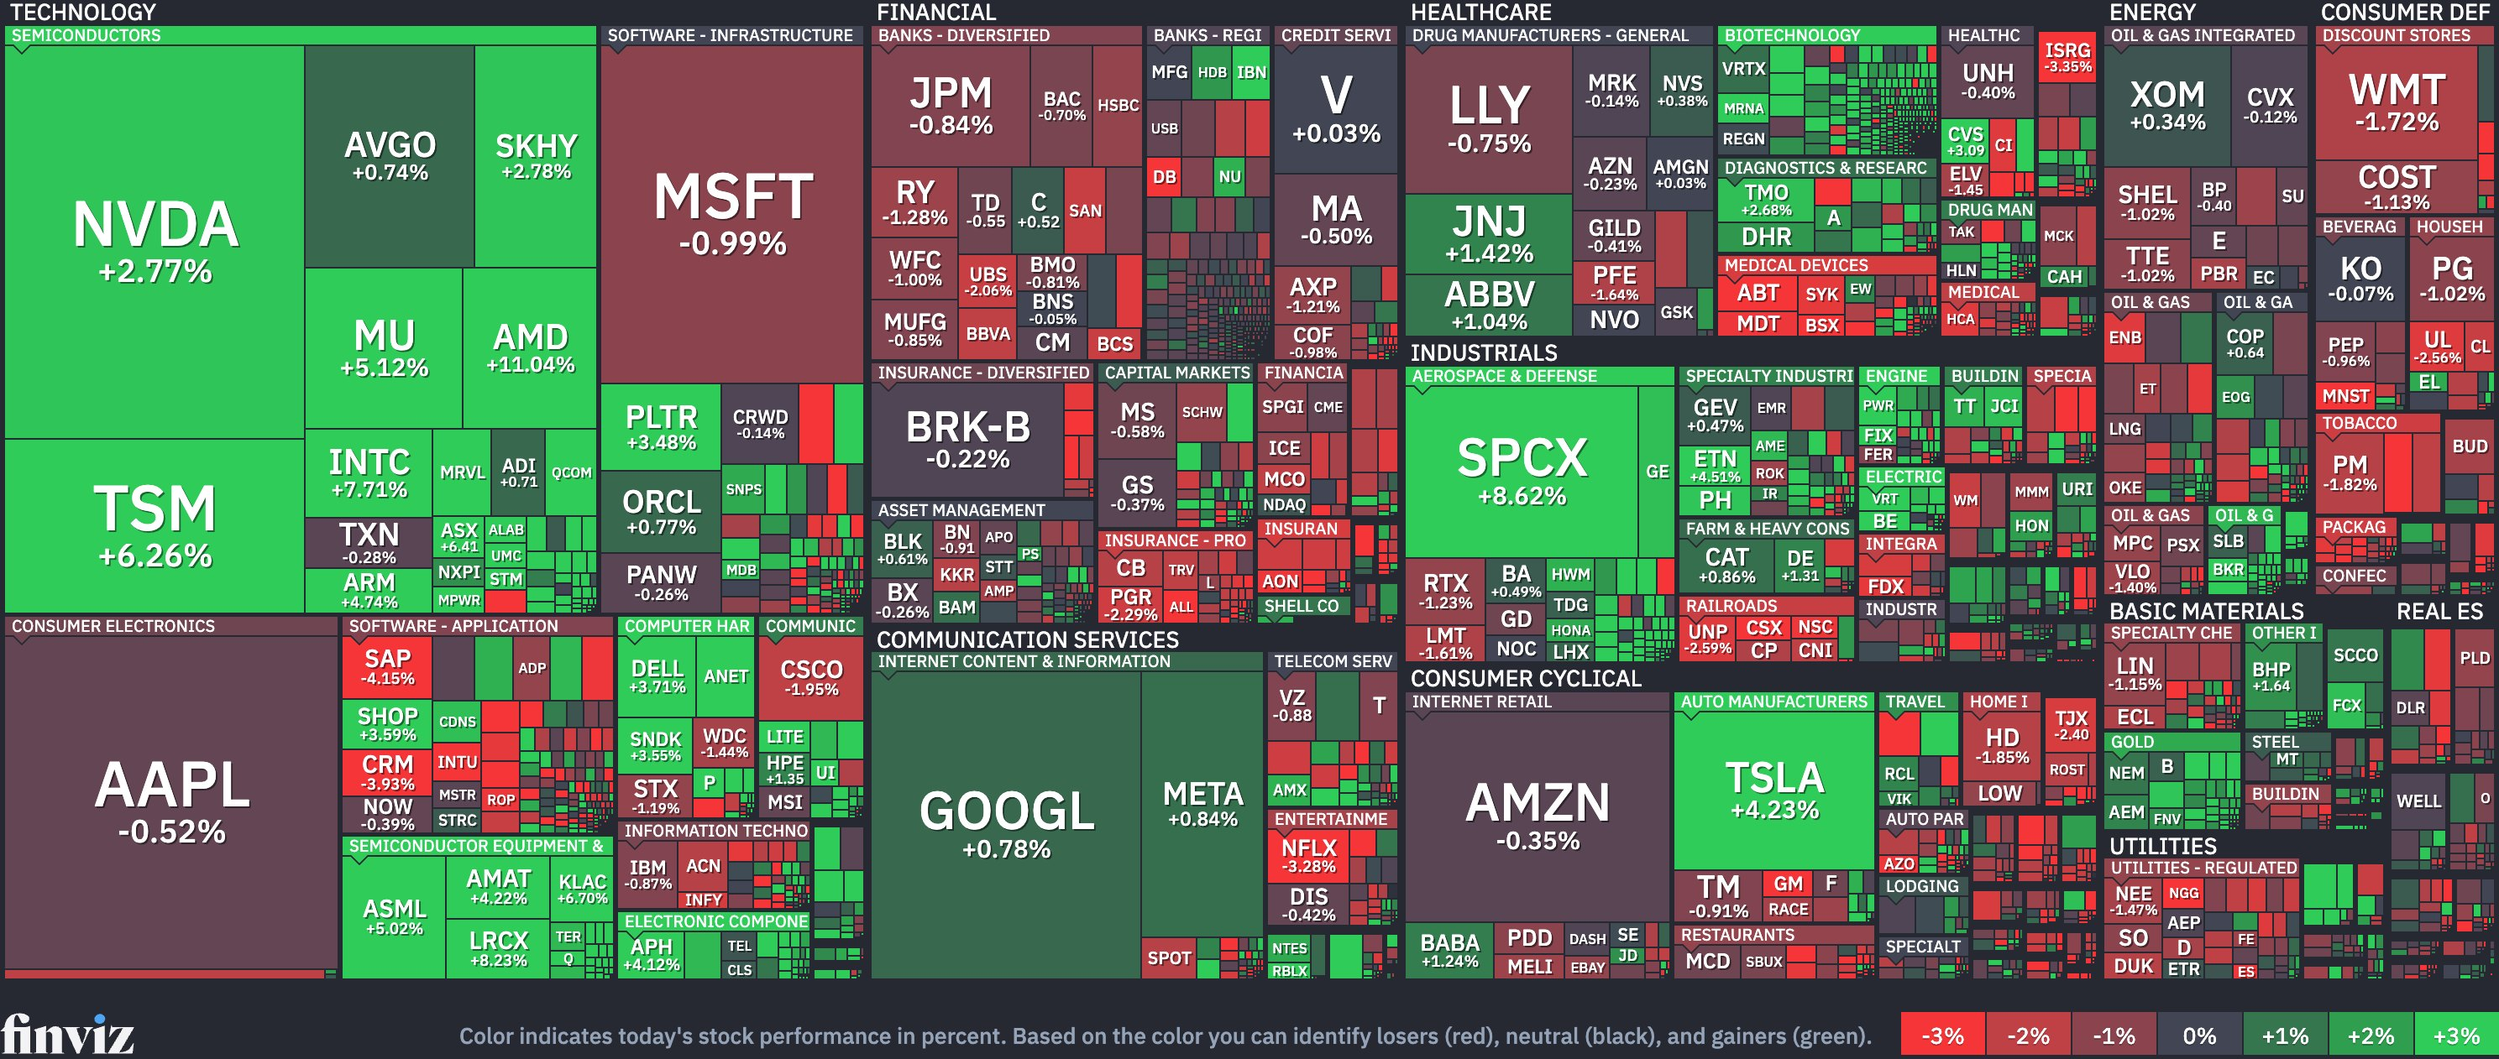
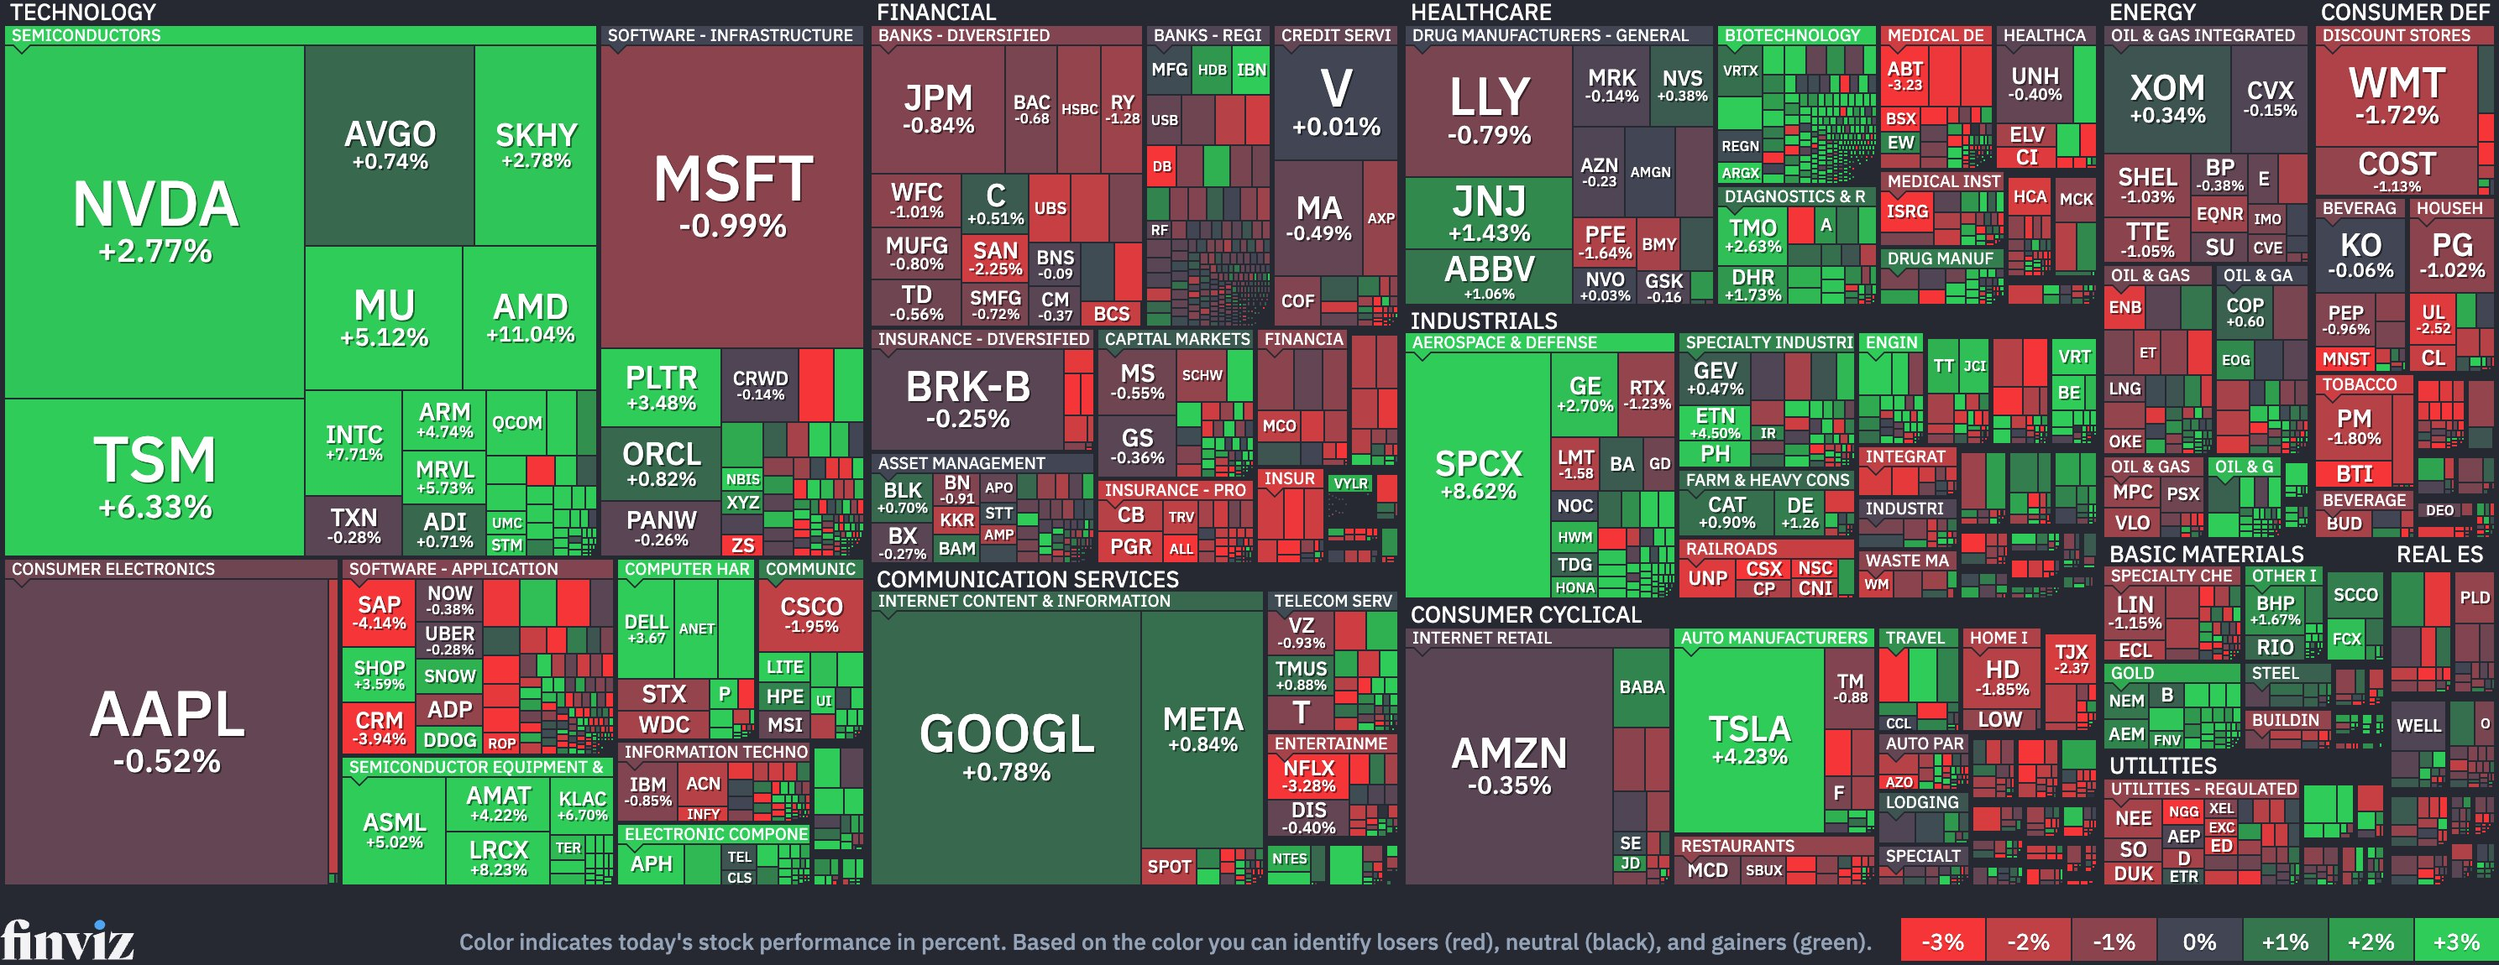
STOCK MAP 갱신 Fri NOV 06, 8:48 PM ET

diff --git a/index.html b/index.html
@@ -117,7 +117,7 @@ footer{margin-top:34px;font-size:12px;color:#7A867C;text-align:center;line-heigh
 <div class="hd"><div class="kicker">STRUCTURE &amp; BOTTLENECKS</div><h1>Report Vault</h1>
 <p>매크로·산업·기업 분석 기록을 모아 읽는 보고서 자료실.</p></div>
 <div class="board"><div class="bhd"><span class="bt">MARKET BOARD</span><span class="bu">11/7 10:47 KST 기준</span></div><div class="bgrid main"><div class="tile down"><div class="tl">DJIA</div><div class="tv">51,285.73</div><div class="tc">▼ −237.33<span class="tp">−0.46%</span></div><svg class="spk" viewBox="0 0 100 26" preserveAspectRatio="none" role="img" aria-label="최근 1개월 10-05→11-06 · 최저 51,179.87 · 최고 53,356.12 · +0.0%"><title>최근 1개월 10-05→11-06 · 최저 51,179.87 · 최고 53,356.12 · +0.0%</title><polygon points="0,26 0.0,23.1 4.2,20.5 8.3,24.0 12.5,23.5 16.7,19.2 20.8,17.2 25.0,19.0 29.2,19.5 33.3,13.9 37.5,15.7 41.7,16.1 45.8,10.7 50.0,7.1 54.2,6.9 58.3,13.5 62.5,12.1 66.7,11.9 70.8,10.9 75.0,12.2 79.2,18.0 83.3,15.9 87.5,17.9 91.7,2.0 95.8,20.5 100.0,22.9 100,26" fill="#1F8A5B" fill-opacity=".10"/><polyline points="0.0,23.1 4.2,20.5 8.3,24.0 12.5,23.5 16.7,19.2 20.8,17.2 25.0,19.0 29.2,19.5 33.3,13.9 37.5,15.7 41.7,16.1 45.8,10.7 50.0,7.1 54.2,6.9 58.3,13.5 62.5,12.1 66.7,11.9 70.8,10.9 75.0,12.2 79.2,18.0 83.3,15.9 87.5,17.9 91.7,2.0 95.8,20.5 100.0,22.9" fill="none" stroke="#1F8A5B" stroke-width="1.6" vector-effect="non-scaling-stroke" stroke-linejoin="round"/></svg><span class="ta">TradingView · 8:15 PM EST</span></div><div class="tile up"><div class="tl">S&amp;P 500</div><div class="tv">7,376.86</div><div class="tc">▲ +23.13<span class="tp">+0.31%</span></div><svg class="spk" viewBox="0 0 100 26" preserveAspectRatio="none" role="img" aria-label="최근 1개월 10-05→11-06 · 최저 7,353.73 · 최고 7,818.93 · -5.1%"><title>최근 1개월 10-05→11-06 · 최저 7,353.73 · 최고 7,818.93 · -5.1%</title><polygon points="0,26 0.0,4.1 4.2,2.0 8.3,2.8 12.5,4.5 16.7,2.3 20.8,2.6 25.0,2.6 29.2,6.7 33.3,5.5 37.5,9.5 41.7,8.1 45.8,7.0 50.0,4.9 54.2,9.4 58.3,11.2 62.5,8.7 66.7,6.6 70.8,5.5 75.0,6.7 79.2,13.3 83.3,15.1 87.5,13.8 91.7,8.2 95.8,24.0 100.0,22.9 100,26" fill="#C0442E" fill-opacity=".10"/><polyline points="0.0,4.1 4.2,2.0 8.3,2.8 12.5,4.5 16.7,2.3 20.8,2.6 25.0,2.6 29.2,6.7 33.3,5.5 37.5,9.5 41.7,8.1 45.8,7.0 50.0,4.9 54.2,9.4 58.3,11.2 62.5,8.7 66.7,6.6 70.8,5.5 75.0,6.7 79.2,13.3 83.3,15.1 87.5,13.8 91.7,8.2 95.8,24.0 100.0,22.9" fill="none" stroke="#C0442E" stroke-width="1.6" vector-effect="non-scaling-stroke" stroke-linejoin="round"/></svg><span class="ta">TradingView · 8:20 PM EST</span></div><div class="tile up"><div class="tl">NASDAQ</div><div class="tv">24,579.425</div><div class="tc">▲ +264.428<span class="tp">+1.09%</span></div><svg class="spk" viewBox="0 0 100 26" preserveAspectRatio="none" role="img" aria-label="최근 1개월 10-05→11-06 · 최저 24,315.00 · 최고 27,599.79 · -10.5%"><title>최근 1개월 10-05→11-06 · 최저 24,315.00 · 최고 27,599.79 · -10.5%</title><polygon points="0,26 0.0,2.8 4.2,2.0 8.3,2.4 12.5,4.7 16.7,3.6 20.8,4.4 25.0,4.6 29.2,8.1 33.3,7.9 37.5,11.8 41.7,9.8 45.8,9.9 50.0,8.0 54.2,12.7 58.3,13.0 62.5,11.6 66.7,9.5 70.8,9.0 75.0,11.5 79.2,16.5 83.3,18.3 87.5,16.9 91.7,14.5 95.8,24.0 100.0,22.2 100,26" fill="#C0442E" fill-opacity=".10"/><polyline points="0.0,2.8 4.2,2.0 8.3,2.4 12.5,4.7 16.7,3.6 20.8,4.4 25.0,4.6 29.2,8.1 33.3,7.9 37.5,11.8 41.7,9.8 45.8,9.9 50.0,8.0 54.2,12.7 58.3,13.0 62.5,11.6 66.7,9.5 70.8,9.0 75.0,11.5 79.2,16.5 83.3,18.3 87.5,16.9 91.7,14.5 95.8,24.0 100.0,22.2" fill="none" stroke="#C0442E" stroke-width="1.6" vector-effect="non-scaling-stroke" stroke-linejoin="round"/></svg><span class="ta">TradingView · 8:41 PM EST</span></div><div class="tile up"><div class="tl">RUSSELL 2000</div><div class="tv">2,754.11</div><div class="tc">▲ +24.22<span class="tp">+0.89%</span></div><svg class="spk" viewBox="0 0 100 26" preserveAspectRatio="none" role="img" aria-label="최근 1개월 10-05→11-06 · 최저 2,721.37 · 최고 2,859.22 · -3.3%"><title>최근 1개월 10-05→11-06 · 최저 2,721.37 · 최고 2,859.22 · -3.3%</title><polygon points="0,26 0.0,3.9 4.2,6.6 8.3,12.5 12.5,12.4 16.7,10.3 20.8,12.3 25.0,14.1 29.2,22.7 33.3,16.7 37.5,24.0 41.7,22.9 45.8,15.7 50.0,14.5 54.2,14.0 58.3,15.3 62.5,13.6 66.7,8.4 70.8,6.6 75.0,2.0 79.2,9.6 83.3,10.5 87.5,9.5 91.7,2.4 95.8,22.6 100.0,18.8 100,26" fill="#C0442E" fill-opacity=".10"/><polyline points="0.0,3.9 4.2,6.6 8.3,12.5 12.5,12.4 16.7,10.3 20.8,12.3 25.0,14.1 29.2,22.7 33.3,16.7 37.5,24.0 41.7,22.9 45.8,15.7 50.0,14.5 54.2,14.0 58.3,15.3 62.5,13.6 66.7,8.4 70.8,6.6 75.0,2.0 79.2,9.6 83.3,10.5 87.5,9.5 91.7,2.4 95.8,22.6 100.0,18.8" fill="none" stroke="#C0442E" stroke-width="1.6" vector-effect="non-scaling-stroke" stroke-linejoin="round"/></svg><span class="ta">TradingView · 8:15 PM EST</span></div><div class="tile up"><div class="tl">US 10-YR</div><div class="tv">4.859%</div><div class="tc">▲ +0.016</div><svg class="spk" viewBox="0 0 100 26" preserveAspectRatio="none" role="img" aria-label="최근 1개월 10-05→11-06 · 최저 4.84 · 최고 5.31 · -8.5%"><title>최근 1개월 10-05→11-06 · 최저 4.84 · 최고 5.31 · -8.5%</title><polygon points="0,26 0.0,2.0 4.2,3.9 8.3,3.6 12.5,5.7 16.7,5.1 20.8,5.3 25.0,6.4 29.2,7.6 33.3,12.3 37.5,11.9 41.7,10.1 45.8,11.0 50.0,9.7 54.2,18.6 58.3,17.0 62.5,17.1 66.7,16.8 70.8,14.3 75.0,16.9 79.2,19.7 83.3,21.4 87.5,18.7 91.7,21.4 95.8,24.0 100.0,23.0 100,26" fill="#C0442E" fill-opacity=".10"/><polyline points="0.0,2.0 4.2,3.9 8.3,3.6 12.5,5.7 16.7,5.1 20.8,5.3 25.0,6.4 29.2,7.6 33.3,12.3 37.5,11.9 41.7,10.1 45.8,11.0 50.0,9.7 54.2,18.6 58.3,17.0 62.5,17.1 66.7,16.8 70.8,14.3 75.0,16.9 79.2,19.7 83.3,21.4 87.5,18.7 91.7,21.4 95.8,24.0 100.0,23.0" fill="none" stroke="#C0442E" stroke-width="1.6" vector-effect="non-scaling-stroke" stroke-linejoin="round"/></svg><span class="ta">TradingView · 5:30 PM EST</span></div><div class="tile up"><div class="tl">US 2-YR</div><div class="tv">4.512%</div><div class="tc">▲ +0.041</div><svg class="spk" viewBox="0 0 100 26" preserveAspectRatio="none" role="img" aria-label="최근 1개월 10-05→11-05 · 최저 4.46 · 최고 4.84 · -7.9%"><title>최근 1개월 10-05→11-05 · 최저 4.46 · 최고 4.84 · -7.9%</title><polygon points="0,26 0.0,2.0 4.5,4.9 9.1,6.1 13.6,7.2 18.2,4.3 22.7,4.9 27.3,3.2 31.8,6.1 36.4,7.8 40.9,6.1 45.5,4.9 50.0,3.7 54.5,13.0 59.1,10.7 63.6,11.3 68.2,10.1 72.7,11.8 77.3,15.3 81.8,18.2 86.4,16.5 90.9,15.3 95.5,17.1 100.0,24.0 100,26" fill="#C0442E" fill-opacity=".10"/><polyline points="0.0,2.0 4.5,4.9 9.1,6.1 13.6,7.2 18.2,4.3 22.7,4.9 27.3,3.2 31.8,6.1 36.4,7.8 40.9,6.1 45.5,4.9 50.0,3.7 54.5,13.0 59.1,10.7 63.6,11.3 68.2,10.1 72.7,11.8 77.3,15.3 81.8,18.2 86.4,16.5 90.9,15.3 95.5,17.1 100.0,24.0" fill="none" stroke="#C0442E" stroke-width="1.6" vector-effect="non-scaling-stroke" stroke-linejoin="round"/></svg><span class="ta">TradingView · 5:30 PM EST</span></div><div class="tile down"><div class="tl">GOLD</div><div class="tv">4,074.90</div><div class="tc">▼ −38.60<span class="tp">−0.94%</span></div><svg class="spk" viewBox="0 0 100 26" preserveAspectRatio="none" role="img" aria-label="최근 1개월 10-05→11-06 · 최저 3,898.90 · 최고 4,216.30 · -1.9%"><title>최근 1개월 10-05→11-06 · 최저 3,898.90 · 최고 4,216.30 · -1.9%</title><polygon points="0,26 0.0,6.1 4.2,4.0 8.3,7.2 12.5,6.1 16.7,2.0 20.8,3.8 25.0,4.7 29.2,9.5 33.3,5.2 37.5,4.4 41.7,5.9 45.8,7.1 50.0,6.6 54.2,12.8 58.3,16.4 62.5,14.3 66.7,11.8 70.8,13.4 75.0,14.8 79.2,24.0 83.3,19.1 87.5,21.1 91.7,11.9 95.8,9.1 100.0,11.5 100,26" fill="#C0442E" fill-opacity=".10"/><polyline points="0.0,6.1 4.2,4.0 8.3,7.2 12.5,6.1 16.7,2.0 20.8,3.8 25.0,4.7 29.2,9.5 33.3,5.2 37.5,4.4 41.7,5.9 45.8,7.1 50.0,6.6 54.2,12.8 58.3,16.4 62.5,14.3 66.7,11.8 70.8,13.4 75.0,14.8 79.2,24.0 83.3,19.1 87.5,21.1 91.7,11.9 95.8,9.1 100.0,11.5" fill="none" stroke="#C0442E" stroke-width="1.6" vector-effect="non-scaling-stroke" stroke-linejoin="round"/></svg><span class="ta">TradingView · 5:36 PM EST</span></div><div class="tile up"><div class="tl">OIL</div><div class="tv">90.83</div><div class="tc">▲ +0.31<span class="tp">+0.34%</span></div><svg class="spk" viewBox="0 0 100 26" preserveAspectRatio="none" role="img" aria-label="최근 1개월 10-05→11-06 · 최저 88.12 · 최고 104.12 · +1.0%"><title>최근 1개월 10-05→11-06 · 최저 88.12 · 최고 104.12 · +1.0%</title><polygon points="0,26 0.0,22.2 4.2,22.2 8.3,23.8 12.5,19.4 16.7,18.9 20.8,16.3 25.0,15.7 29.2,14.4 33.3,10.5 37.5,5.7 41.7,2.6 45.8,5.2 50.0,11.6 54.2,8.4 58.3,3.2 62.5,5.2 66.7,7.8 70.8,3.8 75.0,4.9 79.2,2.0 83.3,12.5 87.5,13.0 91.7,24.0 95.8,20.7 100.0,20.9 100,26" fill="#1F8A5B" fill-opacity=".10"/><polyline points="0.0,22.2 4.2,22.2 8.3,23.8 12.5,19.4 16.7,18.9 20.8,16.3 25.0,15.7 29.2,14.4 33.3,10.5 37.5,5.7 41.7,2.6 45.8,5.2 50.0,11.6 54.2,8.4 58.3,3.2 62.5,5.2 66.7,7.8 70.8,3.8 75.0,4.9 79.2,2.0 83.3,12.5 87.5,13.0 91.7,24.0 95.8,20.7 100.0,20.9" fill="none" stroke="#1F8A5B" stroke-width="1.6" vector-effect="non-scaling-stroke" stroke-linejoin="round"/></svg><span class="ta">TradingView · 5:58 PM EST</span></div></div><div class="bgrid risk"><div class="tile up"><div class="tl">F&amp;G</div><div class="tv">22</div><div class="tc">▲ +2<span class="tg fg-ef">극단적 공포</span></div><svg class="spk" viewBox="0 0 100 26" preserveAspectRatio="none" role="img" aria-label="최근 1개월 10-05→11-06 · 최저 16.69 · 최고 47.03 · -48.8%"><title>최근 1개월 10-05→11-06 · 최저 16.69 · 최고 47.03 · -48.8%</title><polygon points="0,26 0.0,4.9 4.2,2.0 8.3,3.7 12.5,7.7 16.7,4.6 20.8,3.3 25.0,3.0 29.2,15.2 33.3,12.9 37.5,22.9 41.7,22.0 45.8,15.3 50.0,14.2 54.2,21.6 58.3,24.0 62.5,14.5 66.7,12.3 70.8,11.2 75.0,13.8 79.2,17.0 83.3,22.0 87.5,19.0 91.7,11.3 95.8,21.6 100.0,20.1 100,26" fill="#C0442E" fill-opacity=".10"/><polyline points="0.0,4.9 4.2,2.0 8.3,3.7 12.5,7.7 16.7,4.6 20.8,3.3 25.0,3.0 29.2,15.2 33.3,12.9 37.5,22.9 41.7,22.0 45.8,15.3 50.0,14.2 54.2,21.6 58.3,24.0 62.5,14.5 66.7,12.3 70.8,11.2 75.0,13.8 79.2,17.0 83.3,22.0 87.5,19.0 91.7,11.3 95.8,21.6 100.0,20.1" fill="none" stroke="#C0442E" stroke-width="1.6" vector-effect="non-scaling-stroke" stroke-linejoin="round"/></svg><span class="ta">CNN · 11/6</span></div><div class="tile down"><div class="tl">VIX</div><div class="tv">25.64</div><div class="tc">▼ −2.54<span class="tp">−9.01%</span></div><svg class="spk" viewBox="0 0 100 26" preserveAspectRatio="none" role="img" aria-label="최근 1개월 10-05→11-06 · 최저 14.84 · 최고 28.18 · +65.2%"><title>최근 1개월 10-05→11-06 · 최저 14.84 · 최고 28.18 · +65.2%</title><polygon points="0,26 0.0,22.9 4.2,23.7 8.3,23.6 12.5,23.1 16.7,24.0 20.8,23.4 25.0,23.3 29.2,20.7 33.3,21.3 37.5,15.5 41.7,18.1 45.8,19.9 50.0,21.0 54.2,17.1 58.3,16.4 62.5,18.1 66.7,19.6 70.8,20.6 75.0,20.1 79.2,16.4 83.3,13.6 87.5,14.1 91.7,21.1 95.8,2.0 100.0,6.2 100,26" fill="#1F8A5B" fill-opacity=".10"/><polyline points="0.0,22.9 4.2,23.7 8.3,23.6 12.5,23.1 16.7,24.0 20.8,23.4 25.0,23.3 29.2,20.7 33.3,21.3 37.5,15.5 41.7,18.1 45.8,19.9 50.0,21.0 54.2,17.1 58.3,16.4 62.5,18.1 66.7,19.6 70.8,20.6 75.0,20.1 79.2,16.4 83.3,13.6 87.5,14.1 91.7,21.1 95.8,2.0 100.0,6.2" fill="none" stroke="#1F8A5B" stroke-width="1.6" vector-effect="non-scaling-stroke" stroke-linejoin="round"/></svg><span class="ta">TradingView · 8:31 PM EST</span></div><div class="tile up"><div class="tl">BITCOIN</div><div class="tv">75,888</div><div class="tc">▲ +141<span class="tp">+0.19%</span></div><svg class="spk" viewBox="0 0 100 26" preserveAspectRatio="none" role="img" aria-label="최근 1개월 10-05→11-07 · 최저 75,899.05 · 최고 85,786.59 · -11.5%"><title>최근 1개월 10-05→11-07 · 최저 75,899.05 · 최고 85,786.59 · -11.5%</title><polygon points="0,26 0.0,2.0 3.1,2.5 6.2,7.6 9.4,11.1 12.5,9.2 15.6,8.4 18.8,6.7 21.9,11.0 25.0,8.0 28.1,11.4 31.2,10.1 34.4,11.5 37.5,11.8 40.6,10.4 43.8,10.8 46.9,8.3 50.0,5.9 53.1,12.0 56.2,12.5 59.4,13.1 62.5,14.8 65.6,14.9 68.8,13.1 71.9,12.1 75.0,19.8 78.1,21.1 81.2,20.6 84.4,18.8 87.5,22.3 90.6,20.8 93.8,14.0 96.9,23.9 100.0,24.0 100,26" fill="#C0442E" fill-opacity=".10"/><polyline points="0.0,2.0 3.1,2.5 6.2,7.6 9.4,11.1 12.5,9.2 15.6,8.4 18.8,6.7 21.9,11.0 25.0,8.0 28.1,11.4 31.2,10.1 34.4,11.5 37.5,11.8 40.6,10.4 43.8,10.8 46.9,8.3 50.0,5.9 53.1,12.0 56.2,12.5 59.4,13.1 62.5,14.8 65.6,14.9 68.8,13.1 71.9,12.1 75.0,19.8 78.1,21.1 81.2,20.6 84.4,18.8 87.5,22.3 90.6,20.8 93.8,14.0 96.9,23.9 100.0,24.0" fill="none" stroke="#C0442E" stroke-width="1.6" vector-effect="non-scaling-stroke" stroke-linejoin="round"/></svg><span class="ta">TradingView · 8:47 PM EST</span></div><div class="tile up"><div class="tl">USD/KRW</div><div class="tv">1,363.64</div><div class="tc">▲ +5.78<span class="tp">+0.43%</span></div><svg class="spk" viewBox="0 0 100 26" preserveAspectRatio="none" role="img" aria-label="최근 1개월 10-05→11-06 · 최저 1,321.76 · 최고 1,356.34 · +1.0%"><title>최근 1개월 10-05→11-06 · 최저 1,321.76 · 최고 1,356.34 · +1.0%</title><polygon points="0,26 0.0,10.8 4.2,10.0 8.3,12.6 12.5,13.0 16.7,10.5 20.8,11.9 25.0,16.1 29.2,12.2 33.3,12.8 37.5,11.8 41.7,16.6 45.8,18.8 50.0,22.6 54.2,21.6 58.3,21.3 62.5,24.0 66.7,22.1 70.8,20.8 75.0,12.2 79.2,13.7 83.3,21.6 87.5,9.3 91.7,10.6 95.8,12.4 100.0,2.0 100,26" fill="#1F8A5B" fill-opacity=".10"/><polyline points="0.0,10.8 4.2,10.0 8.3,12.6 12.5,13.0 16.7,10.5 20.8,11.9 25.0,16.1 29.2,12.2 33.3,12.8 37.5,11.8 41.7,16.6 45.8,18.8 50.0,22.6 54.2,21.6 58.3,21.3 62.5,24.0 66.7,22.1 70.8,20.8 75.0,12.2 79.2,13.7 83.3,21.6 87.5,9.3 91.7,10.6 95.8,12.4 100.0,2.0" fill="none" stroke="#1F8A5B" stroke-width="1.6" vector-effect="non-scaling-stroke" stroke-linejoin="round"/></svg><span class="ta">TradingView · 5:00 PM EST</span></div><div class="tile up"><div class="tl">DOLLAR INDEX</div><div class="tv">102.28</div><div class="tc">▲ +0.71<span class="tp">+0.70%</span></div><svg class="spk" viewBox="0 0 100 26" preserveAspectRatio="none" role="img" aria-label="최근 1개월 10-05→11-06 · 최저 101.51 · 최고 102.58 · +0.1%"><title>최근 1개월 10-05→11-06 · 최저 101.51 · 최고 102.58 · +0.1%</title><polygon points="0,26 0.0,10.4 4.2,17.4 8.3,9.0 12.5,11.0 16.7,9.6 20.8,2.0 25.0,10.2 29.2,2.6 33.3,13.9 37.5,17.2 41.7,14.3 45.8,19.5 50.0,18.4 54.2,21.9 58.3,17.8 62.5,14.7 66.7,7.3 70.8,10.0 75.0,13.1 79.2,16.4 83.3,19.1 87.5,16.6 91.7,24.0 95.8,23.2 100.0,8.2 100,26" fill="#1F8A5B" fill-opacity=".10"/><polyline points="0.0,10.4 4.2,17.4 8.3,9.0 12.5,11.0 16.7,9.6 20.8,2.0 25.0,10.2 29.2,2.6 33.3,13.9 37.5,17.2 41.7,14.3 45.8,19.5 50.0,18.4 54.2,21.9 58.3,17.8 62.5,14.7 66.7,7.3 70.8,10.0 75.0,13.1 79.2,16.4 83.3,19.1 87.5,16.6 91.7,24.0 95.8,23.2 100.0,8.2" fill="none" stroke="#1F8A5B" stroke-width="1.6" vector-effect="non-scaling-stroke" stroke-linejoin="round"/></svg><span class="ta">TradingView · 5:00 PM EST</span></div><div class="tile flat"><div class="tl">RPONTSYD</div><div class="tv">$0.000B</div><div class="tc">■ +0.000</div><svg class="spk" viewBox="0 0 100 26" preserveAspectRatio="none" role="img" aria-label="최근 1개월 10-05→11-06 · 최저 0.00 · 최고 0.11 · -100.0%"><title>최근 1개월 10-05→11-06 · 최저 0.00 · 최고 0.11 · -100.0%</title><polygon points="0,26 0.0,23.6 4.3,24.0 8.7,23.6 13.0,24.0 17.4,23.8 21.7,24.0 26.1,23.8 30.4,2.0 34.8,24.0 39.1,21.8 43.5,24.0 47.8,24.0 52.2,23.8 56.5,24.0 60.9,23.6 65.2,23.8 69.6,23.6 73.9,21.8 78.3,24.0 82.6,23.6 87.0,24.0 91.3,24.0 95.7,24.0 100.0,24.0 100,26" fill="#C0442E" fill-opacity=".10"/><polyline points="0.0,23.6 4.3,24.0 8.7,23.6 13.0,24.0 17.4,23.8 21.7,24.0 26.1,23.8 30.4,2.0 34.8,24.0 39.1,21.8 43.5,24.0 47.8,24.0 52.2,23.8 56.5,24.0 60.9,23.6 65.2,23.8 69.6,23.6 73.9,21.8 78.3,24.0 82.6,23.6 87.0,24.0 91.3,24.0 95.7,24.0 100.0,24.0" fill="none" stroke="#C0442E" stroke-width="1.6" vector-effect="non-scaling-stroke" stroke-linejoin="round"/></svg><span class="ta">FRED · 11/6</span></div></div></div>
-<div class="smap"><div class="bhd"><span class="bt">STOCK MAP</span><span class="bu">finviz · Fri NOV 06, 4:01 PM ET 기준</span></div><a href="https://finviz.com/map?t=sec_all" target="_blank" rel="noopener noreferrer"><img src="stockmap/stock_map.jpg?v=1793998879" alt="S&amp;P 섹터 지도(finviz)" loading="lazy"></a></div>
+<div class="smap"><div class="bhd"><span class="bt">STOCK MAP</span><span class="bu">finviz · Fri NOV 06, 8:48 PM ET 기준</span></div><a href="https://finviz.com/map?t=sec_all" target="_blank" rel="noopener noreferrer"><img src="stockmap/stock_map.jpg?v=1794016121" alt="S&amp;P 섹터 지도(finviz)" loading="lazy"></a></div>
 <div class="launch"><div class="bhd"><span class="bt">DASHBOARDS</span></div><div class="lgrid"><a class="lbtn" href="https://gaemi-street-journal.github.io/secz-star-map/" target="_blank" rel="noopener noreferrer"><span class="li">✦</span><span class="lt"><b>SECZ 경쟁·협업 별 지도</b><small>시청자 공개판 · 생애주기 9단계 · 새 창</small></span><span class="la">→</span></a><a class="lbtn" href="reports/2026-11-07_iren-infrastructure-globe.html"><span class="li">◎</span><span class="lt"><b>IREN 데이터센터 지구본</b><small>사이트·정치 규제 반영 · 시간 탭 · 최신 11/7</small></span><span class="la">→</span></a><a class="lbtn" href="reports/iren-infrastructure.html"><span class="li">▦</span><span class="lt"><b>IREN 인프라 대시보드</b><small>부지 × 단계 색 칸 · 매일 원장에서 생성 · 고정 주소</small></span><span class="la">→</span></a><a class="lbtn" href="reports/iren-financials.html"><span class="li">▤</span><span class="lt"><b>IREN 재무 대시보드</b><small>분기 공시판 · FY26 확정 · FY27 전망 · 자금조달</small></span><span class="la">→</span></a><a class="lbtn" href="reports/2026-10-12_ai-money-flow-map.html"><span class="li">≈</span><span class="lt"><b>AI 돈의 흐름 지도</b><small>v0.3.1 · 광고주 노드 · 5층 접기 · 자금 원장 · 회수 게이지 2.0</small></span><span class="la">→</span></a><a class="lbtn" href="reports/2026-11-07_daily-brief.html"><span class="li">▤</span><span class="lt"><b>Daily-briefing</b><small>Skill-Daily 통합 보고서 · 최신 11/7</small></span><span class="la">→</span></a></div></div>
 <div class="layout">
 <aside id="nav"><button class="nav all active" data-kind="all"><span class="nm">전체</span><span class="ct">1252</span></button>
